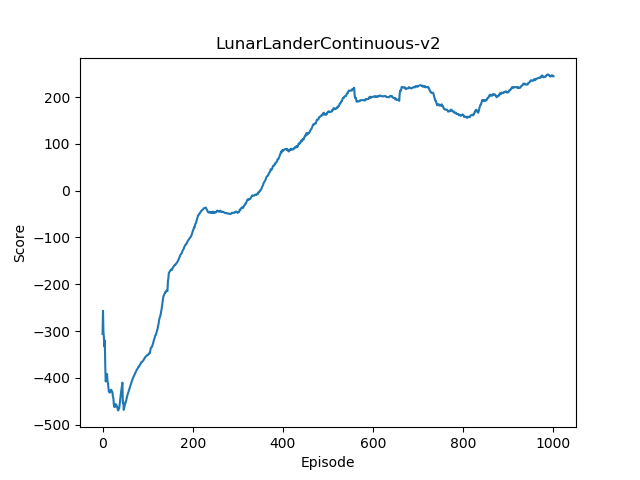
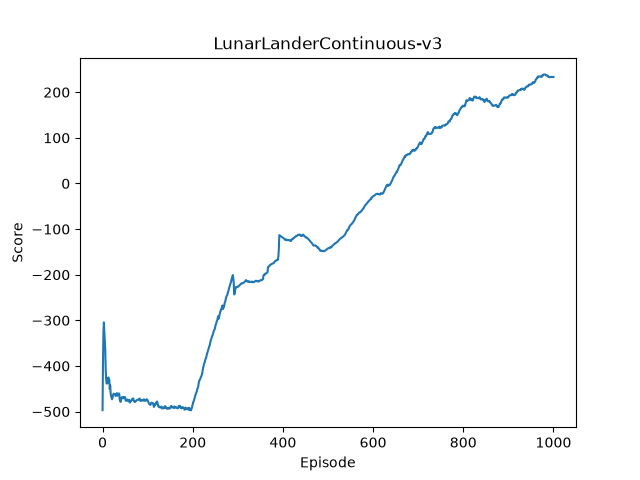
refactor: migrate from Gym to Gymnasium
- Update environments to `LunarLander-v3` and `LunarLanderContinuous-v3`
- Replace `Monitor` wrapper and `env.seed()` with `RecordVideo` and `reset(seed=...)`
- Handle 5-tuple step API (`terminated` / `truncated`)
- Fix array dimension issues in DQN prioritized replay buffer and loss calculation
- Update `requirements.txt` with `gymnasium[box2d]` and `moviepy`

diff --git a/run.py b/run.py
@@ -1,10 +1,11 @@
-import gym
+import gymnasium as gym
 import numpy as np
 import matplotlib.pyplot as plt
 from collections import deque
 import time
 import argparse
 import random
+import os
 
 from dqn.dqn_agent import DqnAgent
 from ddpg.ddpg_agent import DdpgAgent
@@ -15,25 +16,30 @@ def make_env_and_agent(algo, seed):
     random.seed(seed)
 
     if algo == 'DQN':
-        env_name = 'LunarLander-v2'
-        env = gym.make(env_name)
+        env_name = 'LunarLander-v3'
+        env = gym.make(env_name, render_mode='rgb_array')
         state_dim = env.observation_space.shape[0]
         action_size = env.action_space.n
         agent = DqnAgent(state_dim, action_size, gamma=0.99, soft_target_update=True, double=True, duel=True, seed=seed)
     elif algo == 'DDPG':
-        env_name = 'LunarLanderContinuous-v2'
-        env = gym.make(env_name)
+        env_name = 'LunarLanderContinuous-v3'
+        env = gym.make(env_name, render_mode='rgb_array')
         state_dim = env.observation_space.shape[0]
         action_dim = env.action_space.shape[0]
         agent = DdpgAgent(state_dim, action_dim, gamma=0.99, random_seed=seed)
 
-    env.seed(seed)
-    env = gym.wrappers.Monitor(env, f'result/{algo}/video/', force=True, video_callable=lambda x: x % 100 == 0)
+    env = gym.wrappers.RecordVideo(
+        env,
+        video_folder=f'result/{algo}/video',
+        episode_trigger=lambda ep_id: ep_id % 100 == 0,
+        disable_logger=True
+    )
 
     return env, env_name, agent
 
 
 def plot_scores(env_name, scores_list, filename):
+    os.makedirs(os.path.dirname(filename), exist_ok=True)
     n = np.arange(len(scores_list[0]))
     for scores in scores_list:
         plt.plot(n, scores)
@@ -49,7 +55,8 @@ def main():
     parser.add_argument('--algo', choices=['DQN', 'DDPG'], default='DDPG')
 
     args = parser.parse_args()
-    env, env_name, agent = make_env_and_agent(args.algo, seed=1)
+    seed=1
+    env, env_name, agent = make_env_and_agent(args.algo, seed=seed)
 
     n_episodes = 1001
     max_t = 1000
@@ -61,11 +68,12 @@ def main():
     total_steps = 0
 
     for i_episode in range(1, n_episodes+1):
-        state = env.reset()
+        state, _ = env.reset(seed=seed) if i_episode == 1 else env.reset()
         score = 0
         for _ in range(max_t):
             action = agent.act(state)
-            next_state, reward, done, _ = env.step(action)
+            next_state, reward, terminated, truncated, _ = env.step(action)
+            done = terminated or truncated
             agent.step(state, action, reward, next_state, done)
             total_steps += 1
             state = next_state
@@ -88,6 +96,7 @@ def main():
 
     plot_scores(env_name, [moving_scores], f'result/{args.algo}/log.png')
     agent.save_network(f'result/{args.algo}')
+    env.close()
 
 
 if __name__ == '__main__':

diff --git a/dqn/replay_buffer.py b/dqn/replay_buffer.py
@@ -55,15 +55,16 @@ class ReplayBuffer:
         next_states = np.vstack(batch.next_state)
         dones = np.vstack(batch.done)
 
-        probabilities = priorities / self.memory.total_priority()
+        probabilities = np.array(priorities) / self.memory.total_priority()
         weights = np.power(len(self.memory) * probabilities, -self.beta)
         weights = weights / weights.max()
 
         return (states, actions, rewards, next_states, dones), indexes, weights
 
     def update_priorities(self, indexes, new_priorities):
-        for i, p in zip(indexes, new_priorities**self.alpha):
-            self.memory.update_priority(i, p)
+        priorities = np.asarray(new_priorities).flatten() ** self.alpha
+        for i, p in zip(indexes, priorities):
+            self.memory.update_priority(i, float(p))
 
     def __len__(self):
         return len(self.memory)
@@ -108,6 +109,7 @@ class SumTree:
         self.size = min(self.size, self.capacity)
 
     def update_priority(self, index, priority):
+        priority = float(np.squeeze(priority))
         self.max_priority = max(priority, self.max_priority)
         self.tree[index] = priority
         self._update(index)

diff --git a/dqn/dqn_agent.py b/dqn/dqn_agent.py
@@ -81,7 +81,7 @@ class DqnAgent:
         n_states = n_states.float().to(device)
         dones = dones.float().to(device)
 
-        weights = torch.from_numpy(weights).float().to(device)
+        weights = torch.from_numpy(weights).float().to(device).unsqueeze(1)
 
         if self.double:
             argmax = self.q_network(n_states).detach().argmax(1).unsqueeze(1)
@@ -92,7 +92,7 @@ class DqnAgent:
         target = rewards + (self.gamma**self.multi_step * max_next_state_q * (1 - dones))
         q = self.q_network(states).gather(1, actions)
         loss = torch.abs_(q - target)
-        new_priorities = loss.detach().cpu().numpy() + 1e-3
+        new_priorities = (loss.detach().cpu().numpy() + 1e-3).flatten()
         self.replay_memory.update_priorities(indexes, new_priorities)
         loss = (loss**2 * weights).mean()
         self.optimizer.zero_grad()

diff --git a/dqn/network.py b/dqn/network.py
@@ -48,6 +48,6 @@ class DuelingNetwork(nn.Module):
         a = F.relu(a)
         a = self.afc2(a)
 
-        q = v + a - a.mean()
+        q = v + a - a.mean(dim=-1, keepdim=True)
 
         return q

diff --git a/README.md b/README.md
@@ -1,5 +1,5 @@
 # drl-impl
-This is implementations of deep reinforcement learning algorithms.
+This is an implementation of deep reinforcement learning algorithms.
 
 
 ### Algorithms
@@ -16,12 +16,12 @@ $ pip install -r requirements.txt
 ```
 
 ## Usage
-Run DQN for [LunarLander-v2](https://gym.openai.com/envs/LunarLander-v2/)
+Run DQN for [LunarLander-v2](https://gymnasium.farama.org/environments/box2d/lunar_lander/)
 ```
 $ python run.py --algo DQN
 ```
 
-Run DDPG for [LunarLanderContinuous-v2](https://gym.openai.com/envs/LunarLanderContinuous-v2/)
+Run DDPG for [LunarLanderContinuous-v2](https://gymnasium.farama.org/environments/box2d/lunar_lander/)
 ```
 $ python run.py --algo DDPG
 ```
